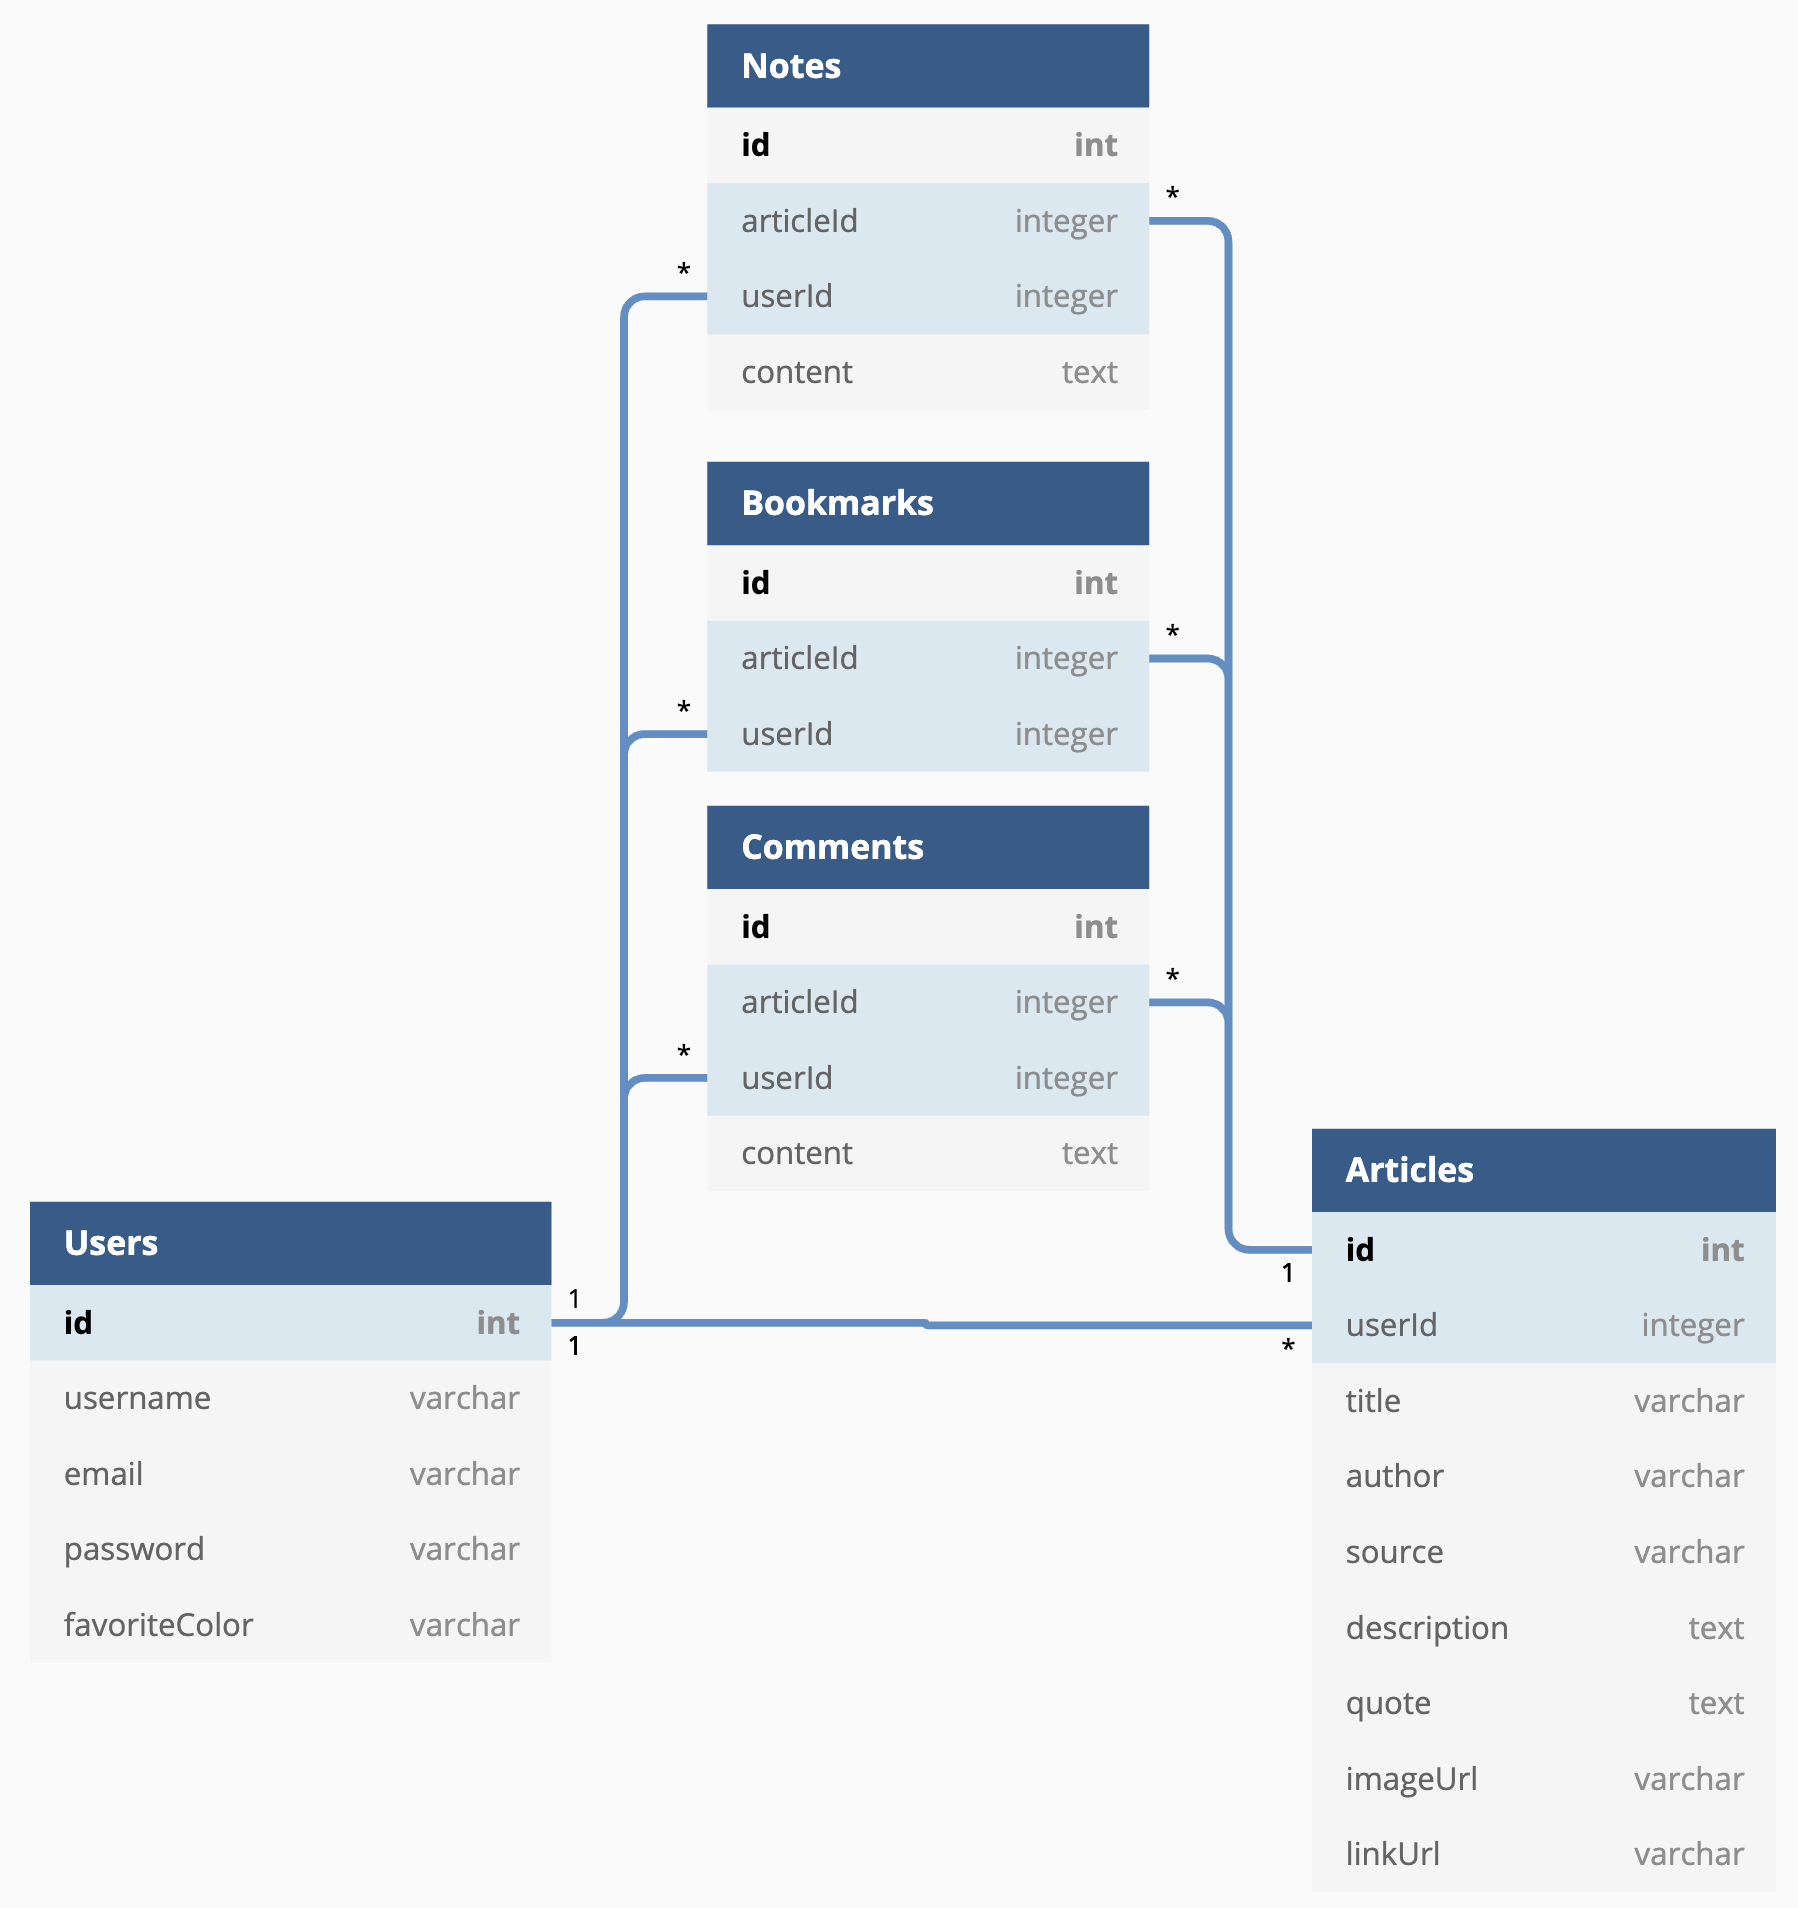
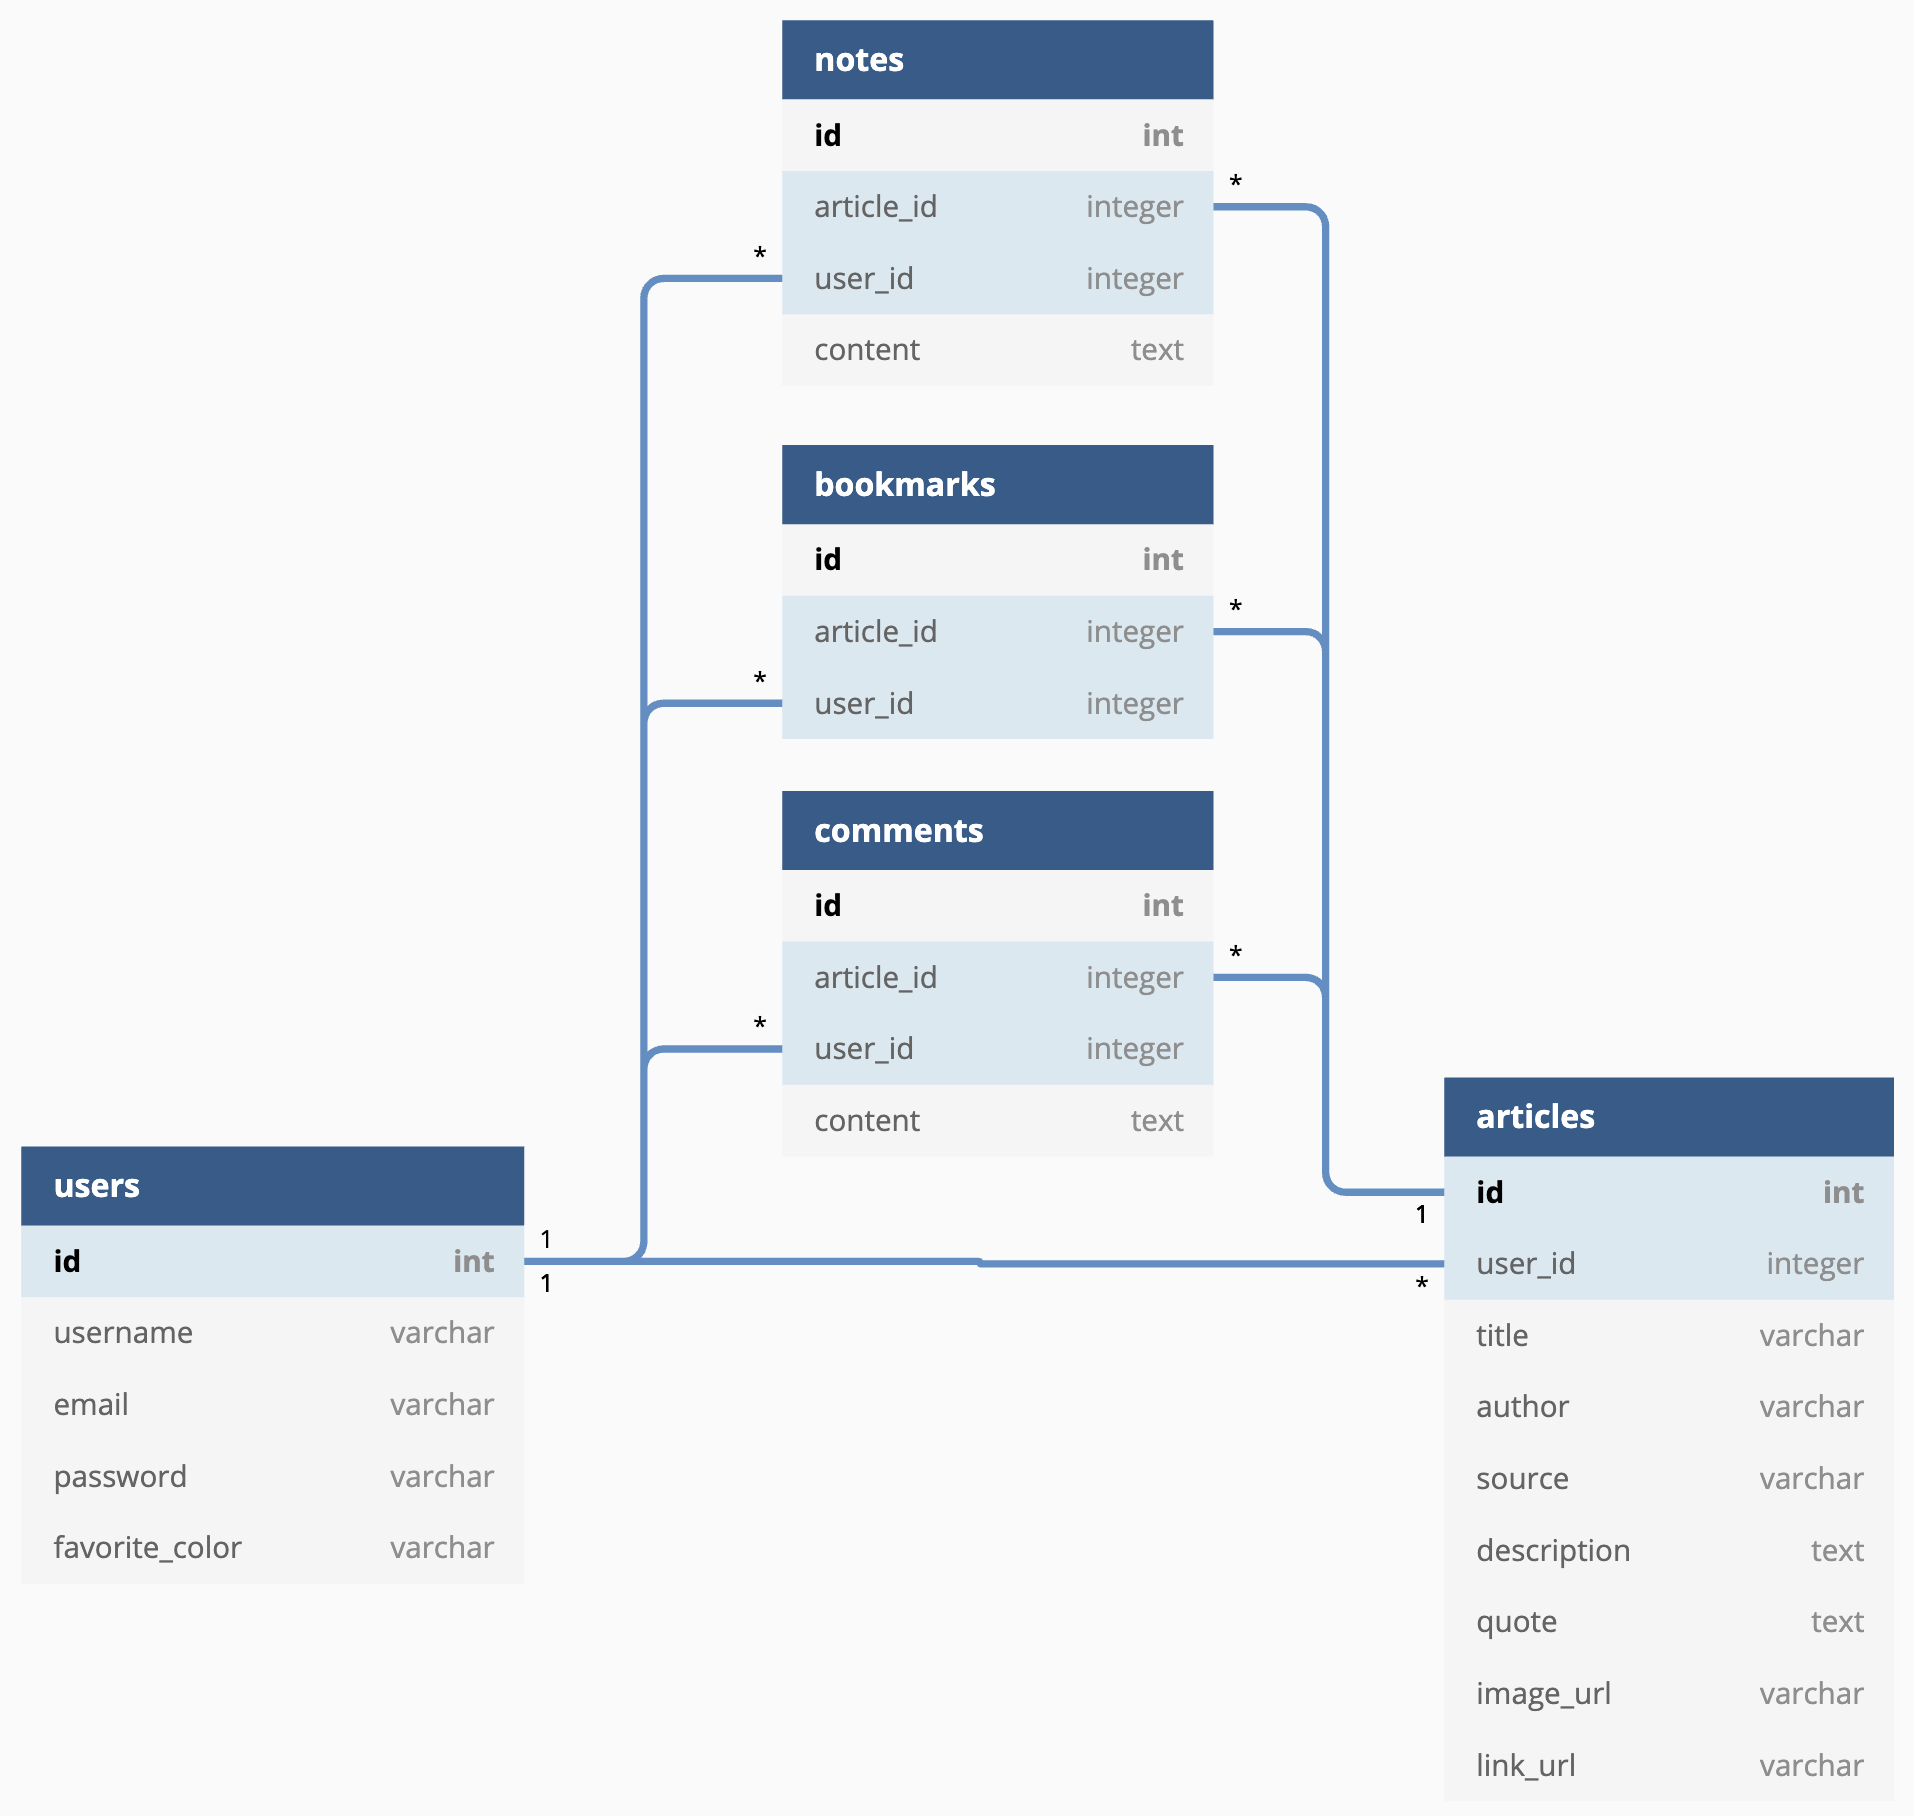
Create database tables/models

diff --git a/migrations/env.py b/migrations/env.py
@@ -8,43 +8,24 @@ from sqlalchemy import pool
 
 from alembic import context
 
-# this is the Alembic Config object, which provides
-# access to the values within the .ini file in use.
+# Alembic Config object, access to values within the .ini file in use
 config = context.config
 
-# Interpret the config file for Python logging.
-# This line sets up loggers basically.
+# interpret config file for Python logging - sets up loggers
 fileConfig(config.config_file_name)
 logger = logging.getLogger('alembic.env')
 
-# add your model's MetaData object here
-# for 'autogenerate' support
-# from myapp import mymodel
-# target_metadata = mymodel.Base.metadata
+
 from flask import current_app
 config.set_main_option(
     'sqlalchemy.url',
     str(current_app.extensions['migrate'].db.engine.url).replace('%', '%%'))
 target_metadata = current_app.extensions['migrate'].db.metadata
 
-# other values from the config, defined by the needs of env.py,
-# can be acquired:
-# my_important_option = config.get_main_option("my_important_option")
-# ... etc.
-
 
 def run_migrations_offline():
-    """Run migrations in 'offline' mode.
-
-    This configures the context with just a URL
-    and not an Engine, though an Engine is acceptable
-    here as well.  By skipping the Engine creation
-    we don't even need a DBAPI to be available.
-
-    Calls to context.execute() here emit the given string to the
-    script output.
-
-    """
+    # run migrations 'offline' - configures context with URL and not Engine
+    # Calls to context.execute() emit the given string to script output
     url = config.get_main_option("sqlalchemy.url")
     context.configure(
         url=url, target_metadata=target_metadata, literal_binds=True
@@ -55,16 +36,8 @@ def run_migrations_offline():
 
 
 def run_migrations_online():
-    """Run migrations in 'online' mode.
-
-    In this scenario we need to create an Engine
-    and associate a connection with the context.
-
-    """
-
-    # this callback is used to prevent an auto-migration from being generated
-    # when there are no changes to the schema
-    # reference: http://alembic.zzzcomputing.com/en/latest/cookbook.html
+    # run migrations 'online' - create Engine connect with context
+    # prevent auto-migration when no changes to schema
     def process_revision_directives(context, revision, directives):
         if getattr(config.cmd_opts, 'autogenerate', False):
             script = directives[0]

diff --git a/app/seeds/users.py b/app/seeds/users.py
@@ -1,27 +1,26 @@
 from app.models import db, User
 
-
-# Adds a demo user, you can add other users here if you want
 def seed_users():
-    demo = User(
-        username='Demo', email='demo@aa.io', password='password')
-    marnie = User(
-        username='marnie', email='marnie@aa.io', password='password')
-    bobbie = User(
-        username='bobbie', email='bobbie@aa.io', password='password')
+    admin = User(
+        username='Chromaculture_Team', email='chromaculture@gmail.com', password='password')
+    guest = User(
+        username='GambogeGuest', email='demo@aa.io', password='password', favorite_color='neon yellow')
+    magenta = User(
+        username='MagentaMax', email='magenta@aa.io', password='password', favorite_color='bubblegum pink')
+    cerulean = User(
+        username='CeruleanSarah', email='cerulean@aa.io', password='password', favorite_color='the blues of the Caribbean Sea')
 
-    db.session.add(demo)
-    db.session.add(marnie)
-    db.session.add(bobbie)
+    db.session.add(admin)
+    db.session.add(guest)
+    db.session.add(magenta)
+    db.session.add(cerulean)
 
     db.session.commit()
 
 
-# Uses a raw SQL query to TRUNCATE the users table.
-# SQLAlchemy doesn't have a built in function to do this
-# TRUNCATE Removes all the data from the table, and RESET IDENTITY
-# resets the auto incrementing primary key, CASCADE deletes any
-# dependent entities
+# TRUNCATE removes all data from table
+# RESET IDENTITY resets auto-incrementing primary key
+# CASCADE deletes any dependent entities
 def undo_users():
     db.session.execute('TRUNCATE users RESTART IDENTITY CASCADE;')
     db.session.commit()

diff --git a/app/models/article.py b/app/models/article.py
@@ -1,0 +1,31 @@
+from .db import db
+
+class Article(db.Model):
+    __tablename__ = 'articles'
+
+    id = db.Column(db.Integer, primary_key=True)
+    user_id = db.Column(db.Integer, db.ForeignKey("users.id"), nullable=False, unique=True)
+    title = db.Column(db.String, nullable=False)
+    author = db.Column(db.String, nullable=False)
+    source = db.Column(db.String, nullable=False)
+    description = db.Column(db.Text, nullable=False)
+    quote = db.Column(db.Text, nullable=False)
+    image_url = db.Column(db.String, nullable=False)
+    link_url = db.Column(db.String, nullable=False)
+    user_details = db.relationship("User", back_populates="article_details")
+    comment_details = db.relationship("Comment", back_populates="article_details", cascade="all, delete")
+    bookmark_details = db.relationship("Bookmark", back_populates="article_details", cascade="all, delete")
+    note_details = db.relationship("Note", back_populates="article_details", cascade="all, delete")
+
+    def to_dict(self):
+        return {
+            'id': self.id,
+            'user_id': self.username,
+            'title': self.title,
+            'author': self.author,
+            'source': self.source,
+            'description': self.description,
+            'quote': self.quote,
+            'image_url': self.image_url,
+            'link_url': self.link_url,
+        }

diff --git a/app/models/user.py b/app/models/user.py
@@ -9,7 +9,12 @@ class User(db.Model, UserMixin):
     id = db.Column(db.Integer, primary_key=True)
     username = db.Column(db.String(40), nullable=False, unique=True)
     email = db.Column(db.String(255), nullable=False, unique=True)
+    favorite_color = db.Column(db.String, nullable=False)
     hashed_password = db.Column(db.String(255), nullable=False)
+    article_details = db.relationship("Article", back_populates="user_details", cascade="all, delete")
+    comment_details = db.relationship("Comment", back_populates="user_details", cascade="all, delete")
+    bookmark_details = db.relationship("Bookmark", back_populates="user_details", cascade="all, delete")
+    note_details = db.relationship("Note", back_populates="user_details", cascade="all, delete")
 
     @property
     def password(self):

diff --git a/app/models/comment.py b/app/models/comment.py
@@ -1,0 +1,19 @@
+from .db import db
+
+class Comment(db.Model):
+    __tablename__ = 'comments'
+
+    id = db.Column(db.Integer, primary_key=True)
+    user_id = db.Column(db.Integer, db.ForeignKey("users.id"), nullable=False, unique=True)
+    article_id = db.Column(db.Integer, db.ForeignKey("articles.id"), nullable=False, unique=True)
+    content = db.Column(db.Text, nullable=False)
+    user_details = db.relationship("User", back_populates="comment_details")
+    article_details = db.relationship("Article", back_populates="comment_details")
+
+    def to_dict(self):
+        return {
+            'id': self.id,
+            'user_id': self.username,
+            'article_id': self.article_id,
+            'content': self.content,
+        }

diff --git a/app/models/note.py b/app/models/note.py
@@ -1,0 +1,19 @@
+from .db import db
+
+class Note(db.Model):
+    __tablename__ = 'notes'
+
+    id = db.Column(db.Integer, primary_key=True)
+    user_id = db.Column(db.Integer, db.ForeignKey("users.id"), nullable=False, unique=True)
+    article_id = db.Column(db.Integer, db.ForeignKey("articles.id"), nullable=False, unique=True)
+    content = db.Column(db.Text, nullable=False)
+    user_details = db.relationship("User", back_populates="note_details")
+    article_details = db.relationship("Article", back_populates="note_details")
+
+    def to_dict(self):
+        return {
+            'id': self.id,
+            'user_id': self.username,
+            'article_id': self.article_id,
+            'content': self.content,
+        }

diff --git a/app/models/bookmark.py b/app/models/bookmark.py
@@ -1,0 +1,17 @@
+from .db import db
+
+class Bookmark(db.Model):
+    __tablename__ = 'bookmarks'
+
+    id = db.Column(db.Integer, primary_key=True)
+    user_id = db.Column(db.Integer, db.ForeignKey("users.id"), nullable=False, unique=True)
+    article_id = db.Column(db.Integer, db.ForeignKey("articles.id"), nullable=False, unique=True)
+    user_details = db.relationship("User", back_populates="bookmark_details")
+    article_details = db.relationship("Article", back_populates="bookmark_details")
+
+    def to_dict(self):
+        return {
+            'id': self.id,
+            'user_id': self.username,
+            'article_id': self.article_id,
+        }

diff --git a/app/models/__init__.py b/app/models/__init__.py
@@ -1,2 +1,6 @@
 from .db import db
 from .user import User
+from .article import Article
+from .bookmark import Bookmark
+from .note import Note
+from .comment import Comment
